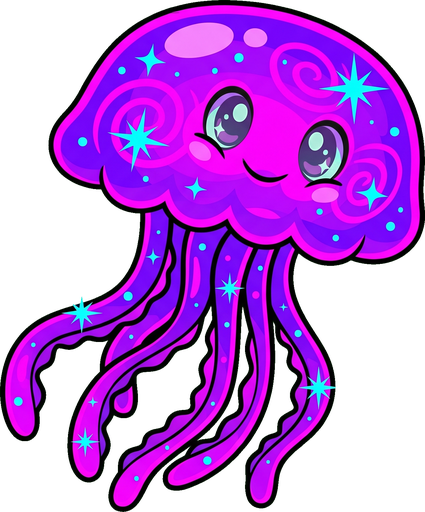
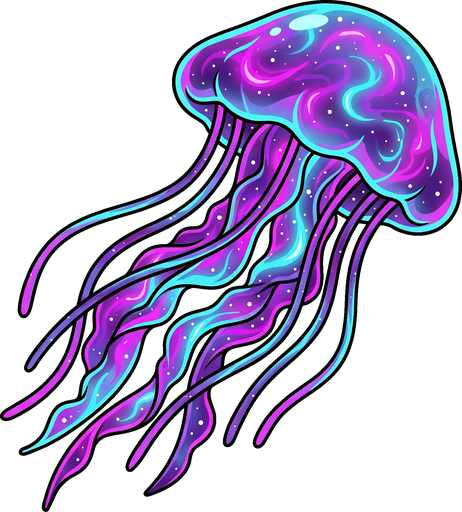
design(word-tower): sleeker nebula jellyfish prop (drop kawaii per feedback)
Regenerated the Nebula-band creature without the cute face/eyes — bioluminescent
deep-space jellyfish with nebula swirls + starlight, cooler/edgier to match the
'electric, surprising charm' brand. Same filename/prop entry; chroma-keyed +
512px. v2 raw kept for provenance.

diff --git a/daily-content/word-tower-biome-props-v1/README.md b/daily-content/word-tower-biome-props-v1/README.md
@@ -4,7 +4,7 @@ Generated ambient creatures that give each biome its OWN identity (beyond the CS
 sky gradient). Proof-of-direction batch.
 
 ## Shipped
-- **wt-nebula-jelly.png** — kawaii cosmic jellyfish for the **Nebula** band (500–800m).
+- **wt-nebula-jelly.png** — sleek bioluminescent cosmic jellyfish (NO kawaii face, per feedback) for the **Nebula** band (500–800m). v1 raw `nebula-jelly-raw.png` was the cute first pass; `nebula-jelly-v2-raw.png` is the shipped sleeker take.
   Wired into `lib/wordTower/parallaxProps.ts` at `atM: 580` and copied to
   `fe-next/public/images/word-tower/wt-nebula-jelly.png`.
 
